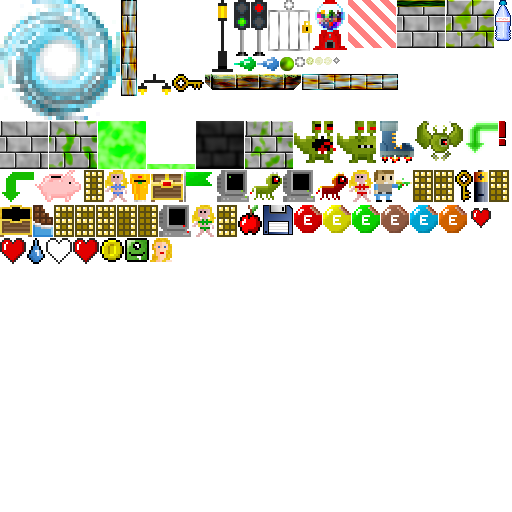
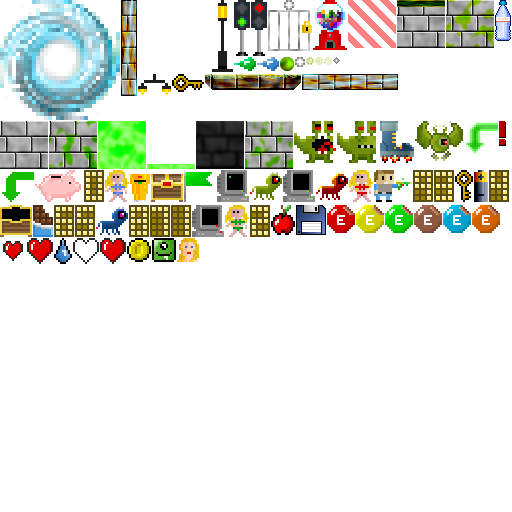
Added blue horse.

Changed region(s): [[0.0, 0.375, 1.0, 0.5312]]

diff --git a/src/entities/blueHorse.c b/src/entities/blueHorse.c
@@ -18,9 +18,9 @@ Foundation, Inc., 59 Temple Place - Suite 330, Boston, MA  02111-1307, USA.
 
 */
 
-#include "redHorse.h"
+#include "blueHorse.h"
 
-void initRedHorse(Entity *e)
+void initBlueHorse(Entity *e)
 {
 	Monster *m;
 
@@ -29,9 +29,11 @@ void initRedHorse(Entity *e)
 	m = (Monster*)e->data;
 
 	m->health = m->maxHealth = 12;
-	m->coins = 3;
+	m->coins = 5;
+	m->aiFlags |= AIF_CLIMB_STAIRS;
+	m->aiFlags &= ~AIF_HALT_AT_EDGE;
 
-	e->typeName = "redHorse";
+	e->typeName = "blueHorse";
 
-	e->atlasImage = getAtlasImage("gfx/entities/redHorse1.png", 1);
+	e->atlasImage = getAtlasImage("gfx/entities/blueHorse1.png", 1);
 }

diff --git a/src/entities/blueHorse.h b/src/entities/blueHorse.h
@@ -18,20 +18,11 @@ Foundation, Inc., 59 Temple Place - Suite 330, Boston, MA  02111-1307, USA.
 
 */
 
-#include "redHorse.h"
+#include "../common.h"
 
-void initRedHorse(Entity *e)
-{
-	Monster *m;
+extern AtlasImage *getAtlasImage(char *filename, int required);
+extern void initGreenHorse(Entity *e);
+extern void monsterSave(cJSON *root);
 
-	initGreenHorse(e);
-
-	m = (Monster*)e->data;
-
-	m->health = m->maxHealth = 12;
-	m->coins = 3;
-
-	e->typeName = "redHorse";
-
-	e->atlasImage = getAtlasImage("gfx/entities/redHorse1.png", 1);
-}
+extern Entity *self;
+extern Stage *stage;

diff --git a/src/world/entityFactory.c b/src/world/entityFactory.c
@@ -29,8 +29,9 @@ void initEntityFactory(void)
 	memset(&initFuncHead, 0, sizeof(InitFunc));
 	initFuncTail = &initFuncHead;
 
-	addInitFunc("bbbbb", initBBBBB);
 	addInitFunc("battery", initBattery);
+	addInitFunc("bbbbb", initBBBBB);
+	addInitFunc("blueHorse", initBlueHorse);
 	addInitFunc("boots", initBoots);
 	addInitFunc("ceilingLamp", initCeilingLamp);
 	addInitFunc("chest", initChest);

diff --git a/src/world/entityFactory.h b/src/world/entityFactory.h
@@ -21,6 +21,7 @@ Foundation, Inc., 59 Temple Place - Suite 330, Boston, MA  02111-1307, USA.
 #include "../common.h"
 #include "../json/cJSON.h"
 
+extern void initBlueHorse(Entity *e);
 extern void initBBBBB(Entity *e);
 extern void initBattery(Entity *e);
 extern void initBoots(Entity *e);
